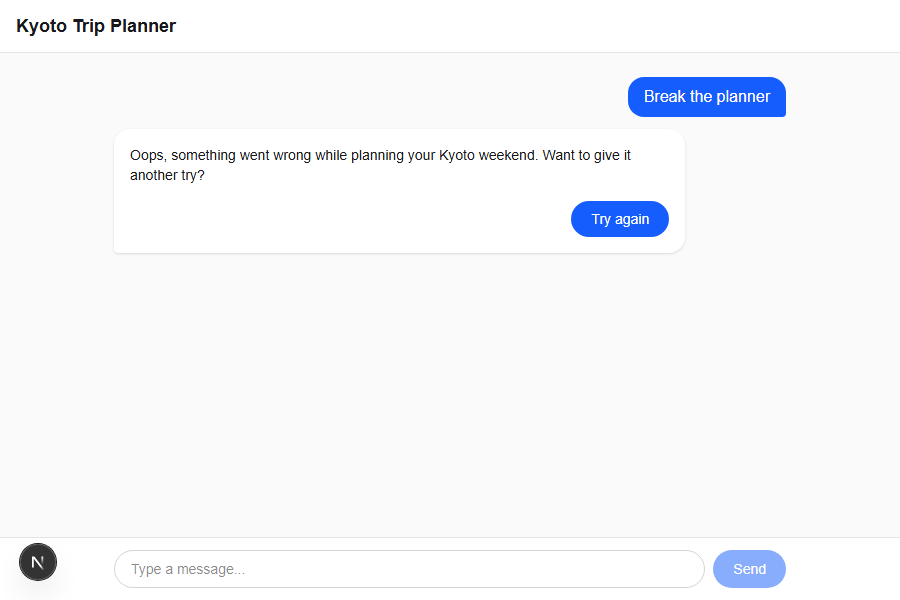
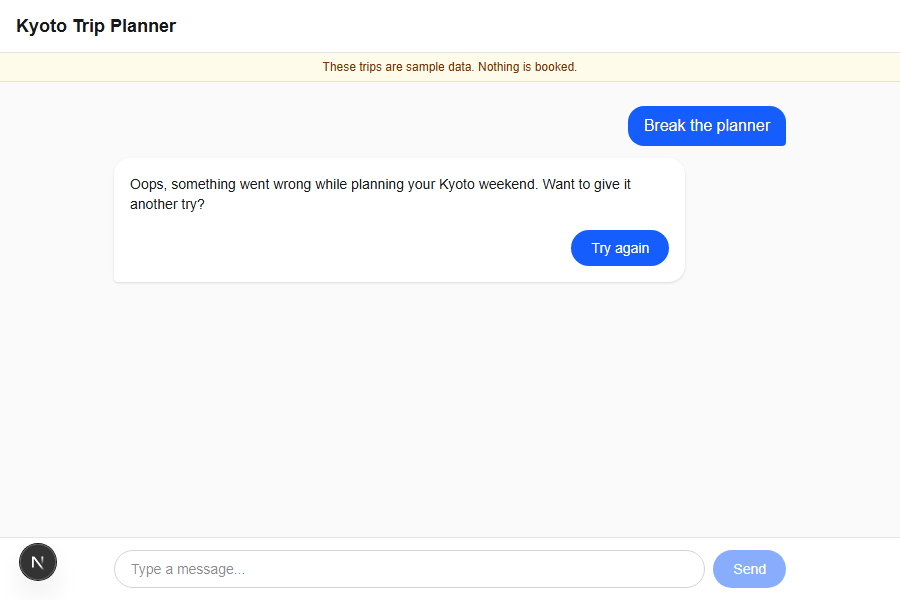
Add sample-data note to page and refresh README screenshots
Shows a visible line under the header saying the trips are sample data and nothing is booked. Retakes the three README screenshots so they include the note.

Changed region(s): [[0.1244, 0.12, 0.8711, 0.45], [0.3422, 0.09, 0.6533, 0.12]]

diff --git a/src/components/chat.tsx b/src/components/chat.tsx
@@ -94,6 +94,13 @@ export default function Chat() {
         <h1 className="text-lg font-semibold">Kyoto Trip Planner</h1>
       </header>
 
+      <p
+        role="note"
+        className="border-b border-amber-200 bg-amber-50 px-4 py-1.5 text-center text-xs text-amber-900 dark:border-amber-900 dark:bg-amber-950 dark:text-amber-200"
+      >
+        These trips are sample data. Nothing is booked.
+      </p>
+
       <main className="flex-1 overflow-y-auto px-4 py-6">
         <div className="mx-auto flex max-w-2xl flex-col gap-3">
           {messages.length === 0 && !isTyping ? (

diff --git a/README.md b/README.md
@@ -4,6 +4,10 @@ A chat-style planner for a Kyoto weekend. Sending a message shows a typing indic
 
 ![Chat showing a stay, an experience, and a food card](docs/three-cards.png)
 
+**Live link:** https://kyoto-weekend-planner-chat.vercel.app
+
+> **Team note:** This link opens the Kyoto Trip Planner chat in any browser, with no install, login, or setup. All trips are **sample data**; nothing is booked or saved. To try both paths: (1) **Normal:** type any trip request, for example `Plan a weekend in Kyoto`, to see a thinking animation and then a stay, an experience, and a food card. (2) **Failure:** type `Break the planner` and press Enter to see a friendly error with **Try again**, then click it to bring the three cards back. The failure fires once per page load, so refresh to repeat it.
+
 ## Run locally
 
 Requires Node 20.9+. Run `npm install && npm run dev`, then open http://localhost:3000.
@@ -13,6 +17,13 @@ To fire the error bubble, type `Break the planner` and press Enter. It fails the
 ![Error bubble shown after typing "Break the planner"](docs/error-bubble.png)
 
 ![Three cards shown after clicking Try again](docs/three-cards-after-retry.png)
+
+## Checklist before sharing
+
+- [x] **3 of 3 cards:** one typed request shows a thinking state first, then a stay, an experience, and a food card that each look clearly different. At phone width nothing is cut off and nothing scrolls sideways.
+- [x] **0 blank-chat moments:** the chat is never empty: not when the failure happens, not when **Try again** is pressed, and not right after. The friendly message and **Try again** sit inside the assistant's message, and pressing it brings back all three cards.
+- [x] **No login:** the link opens in a private/incognito window with no install, login, or configuration. Share only the production `.vercel.app` link, never a preview link (those ask for a Vercel login).
+- [x] **Mocked data note:** the page makes clear the trips are sample data and that nothing is booked.
 
 ## Placeholder fields
 
